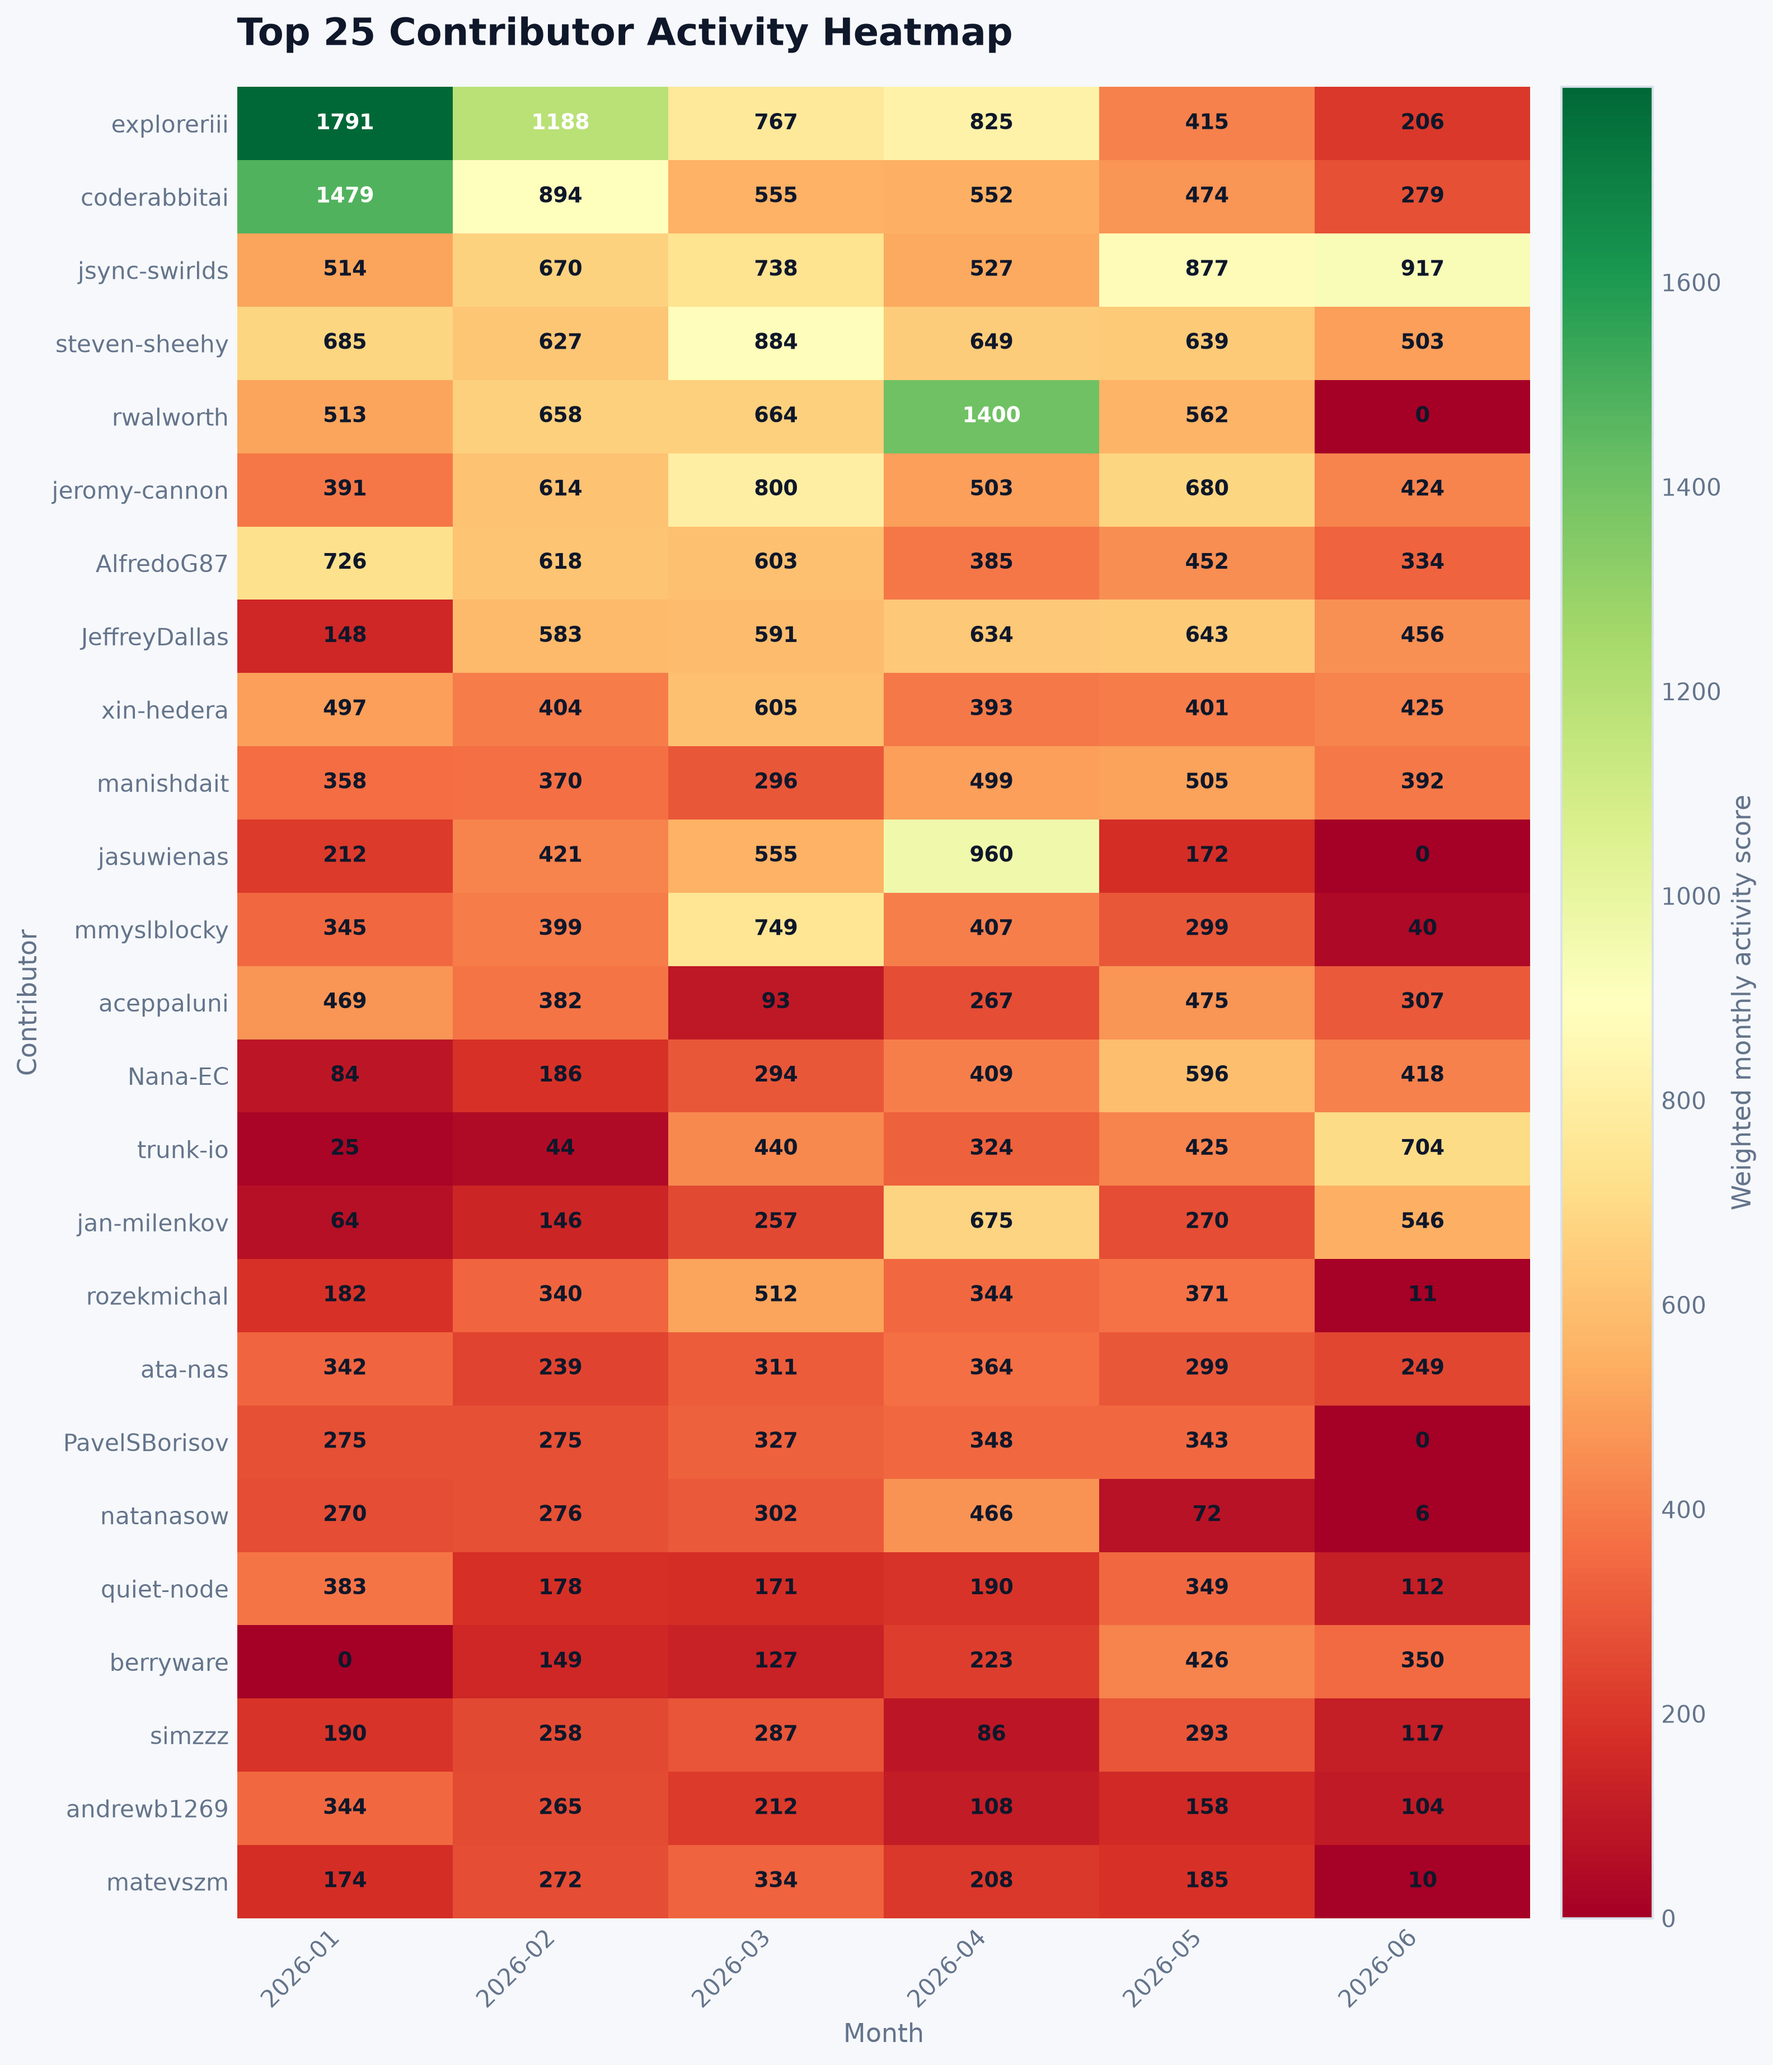
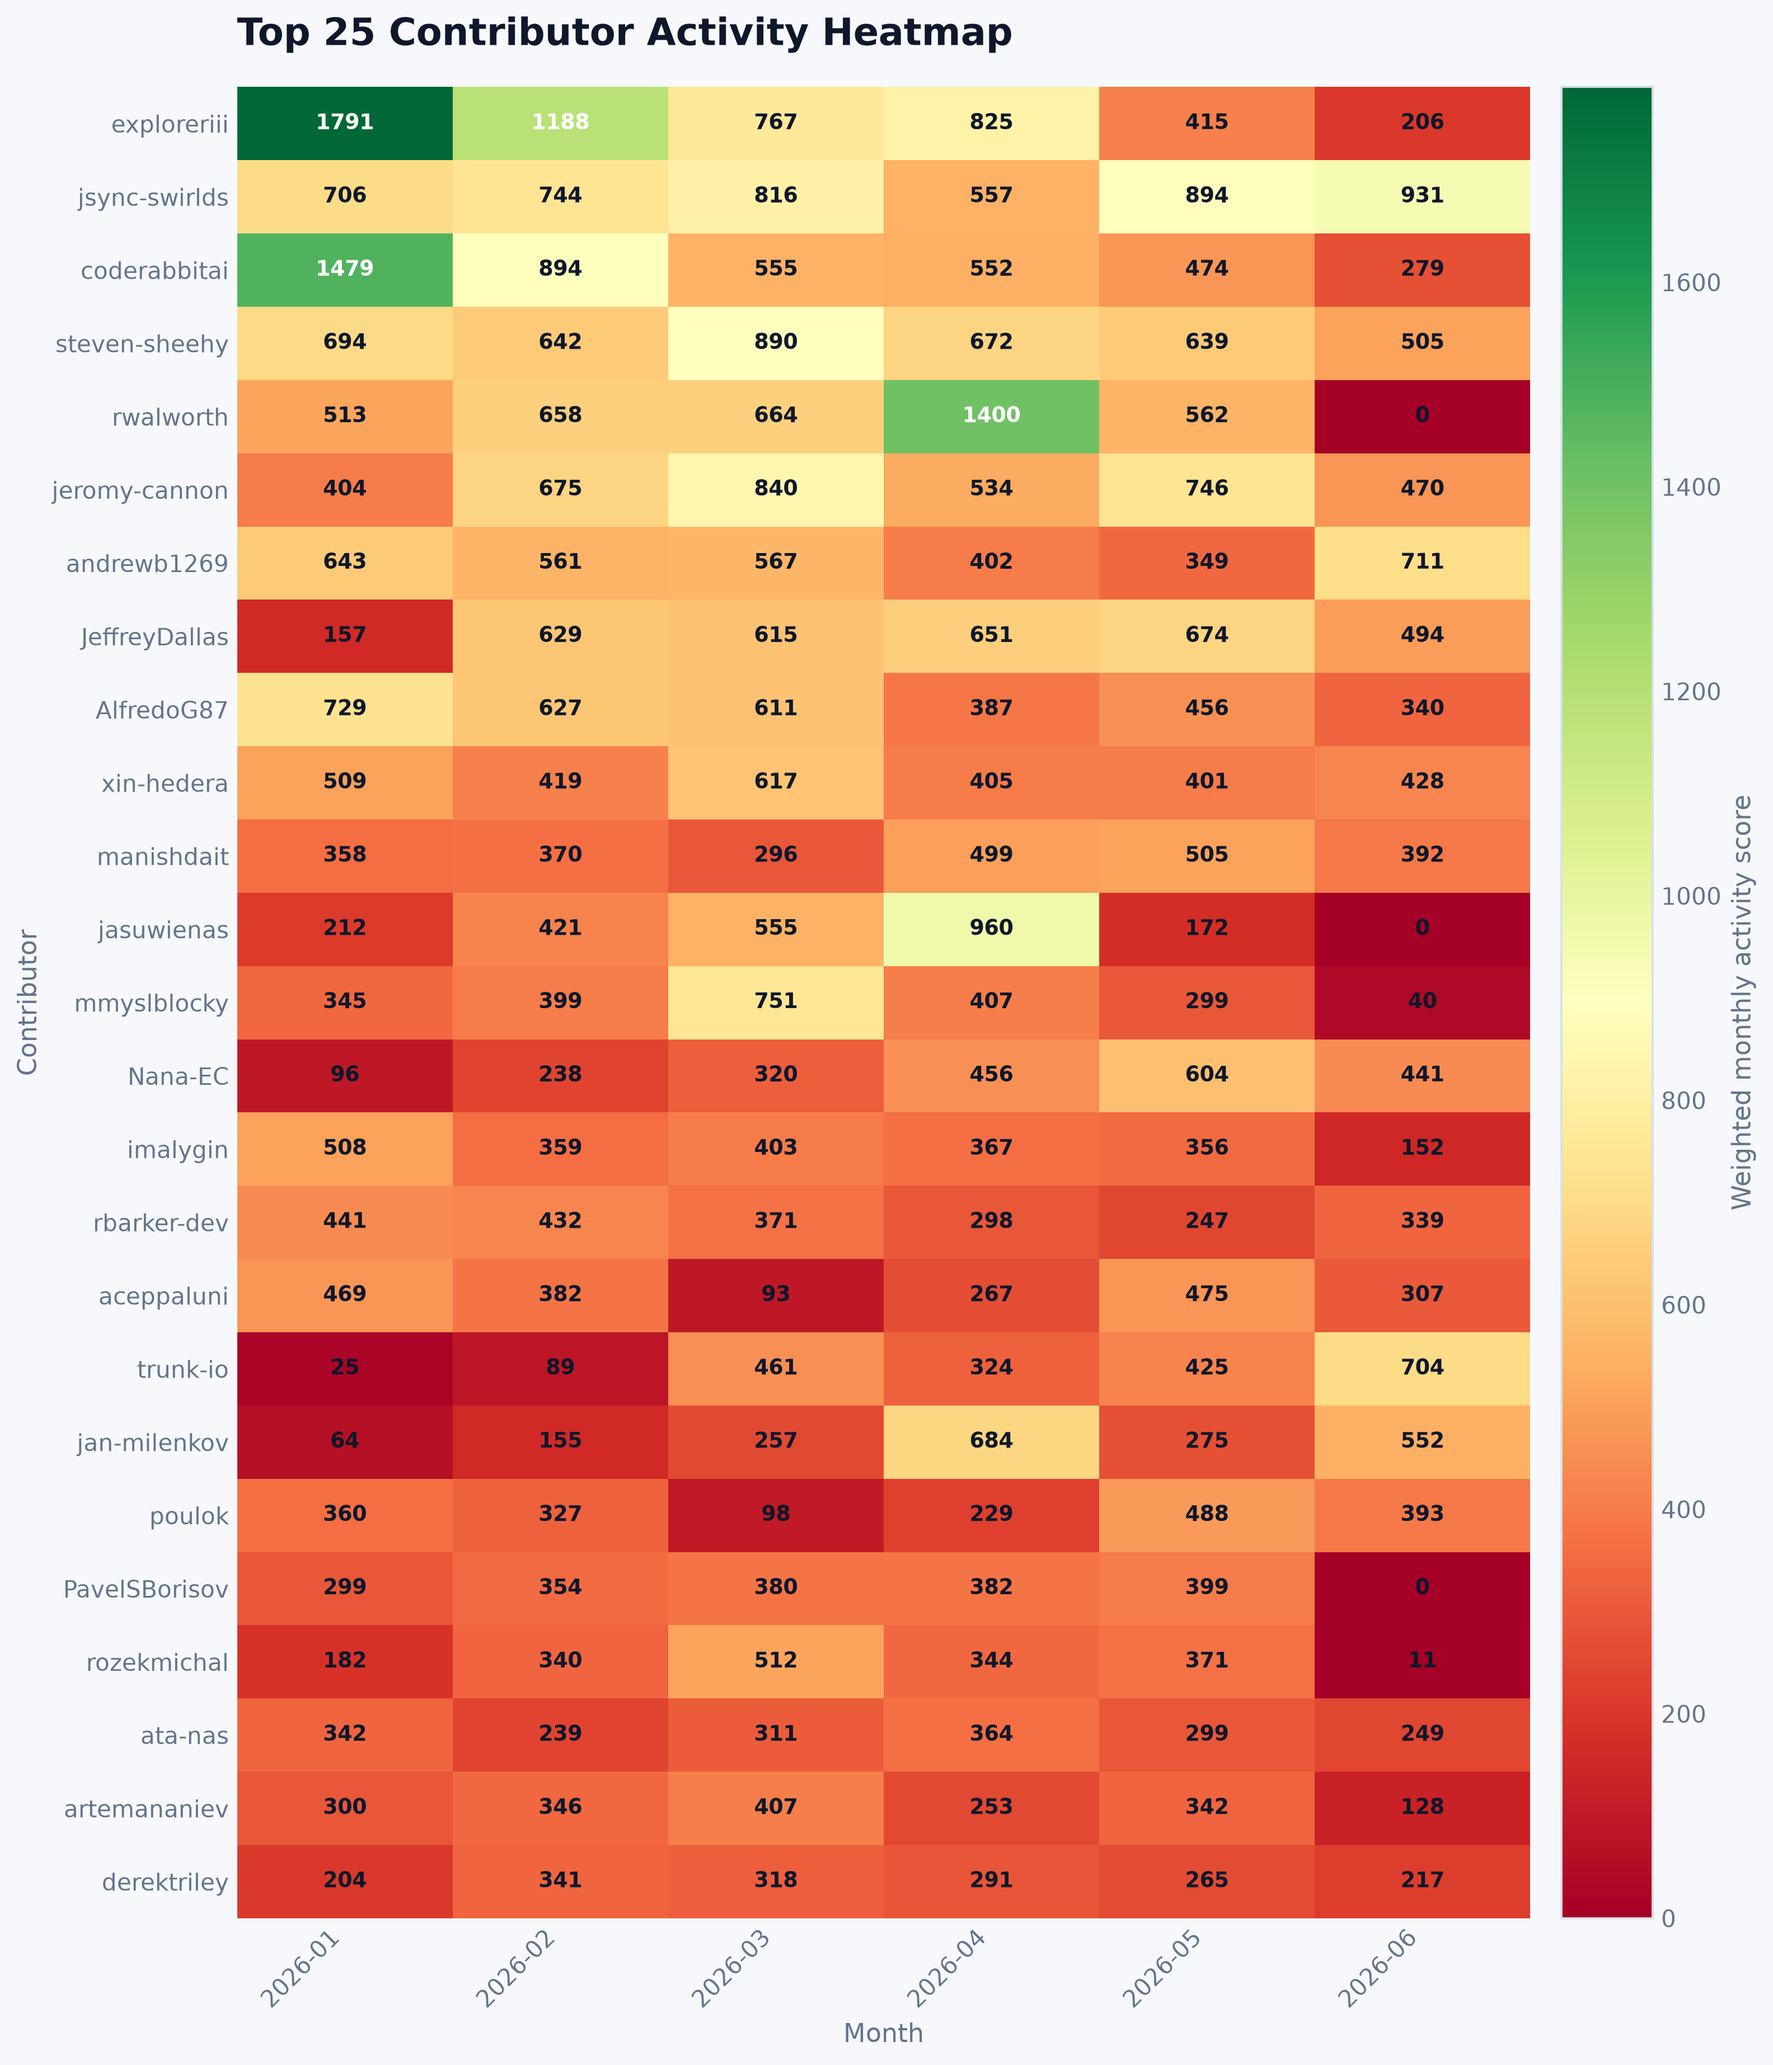
chore: apply ai feedback

diff --git a/src/hiero_analytics/data_sources/models.py b/src/hiero_analytics/data_sources/models.py
@@ -31,7 +31,7 @@ def _extract_login(container: Mapping | None, key: str = "author") -> str | None
     """
     actor = container.get(key) if isinstance(container, Mapping) else None
     login = actor.get("login") if isinstance(actor, Mapping) else None
-    if not isinstance(login, str) or login == "dependabot":
+    if not isinstance(login, str) or login in {"dependabot", "dependabot[bot]", "dependabot-preview[bot]"}:
         return None
     return login
 
@@ -40,7 +40,8 @@ def _extract_labels(container: Mapping | None, *, lower: bool = False) -> list[s
     """Extract label names from ``container["labels"]["nodes"]``."""
     if not isinstance(container, Mapping):
         return []
-    nodes = container.get("labels", {}).get("nodes", [])
+    labels = container.get("labels")
+    nodes = labels.get("nodes", []) if isinstance(labels, Mapping) else []
     names = (n.get("name") for n in nodes if isinstance(n, Mapping))
     return [name.lower() if lower else name for name in names if isinstance(name, str)]
 

diff --git a/src/hiero_analytics/data_sources/github_ingest/issues.py b/src/hiero_analytics/data_sources/github_ingest/issues.py
@@ -147,8 +147,11 @@ def fetch_repo_issue_label_events_graphql(
     Unlike the repo-wide ``/issues/events`` REST endpoint (which streams every
     event type for every issue and is page-capped), this requests only
     ``LABELED_EVENT``/``UNLABELED_EVENT`` items inline with the issue list, so it
-    transfers a fraction of the data, never truncates, and is cached on a stable
-    key (owner/repo/states) rather than a per-run ``since`` timestamp.
+    transfers a fraction of the data and avoids the REST endpoint's 300-page cap,
+    and is cached on a stable key (owner/repo/states) rather than a per-run
+    ``since`` timestamp. The nested ``timelineItems`` connection is capped at 100
+    events per issue (no inner pagination); ``from_github_node`` logs a warning on
+    the rare issue that exceeds it.
     """
     query = load_query("issue_label_events")
     norm_states = [s.upper() for s in states] if states else None

diff --git a/src/hiero_analytics/data_sources/cache.py b/src/hiero_analytics/data_sources/cache.py
@@ -26,7 +26,7 @@ from .serialization import deserialize_record, serialize_record
 logger = logging.getLogger(__name__)
 
 CACHE_VERSION = 1
-DEFAULT_GITHUB_CACHE_TTL_SECONDS = 60*60*24 # 24 hours
+DEFAULT_GITHUB_CACHE_TTL_SECONDS = 60 * 60 * 24  # 24 hours
 GITHUB_CACHE_DIR = OUTPUTS_DIR / "cache" / "github"
 
 _TRUE_VALUES = {"1", "true", "yes", "on"}
